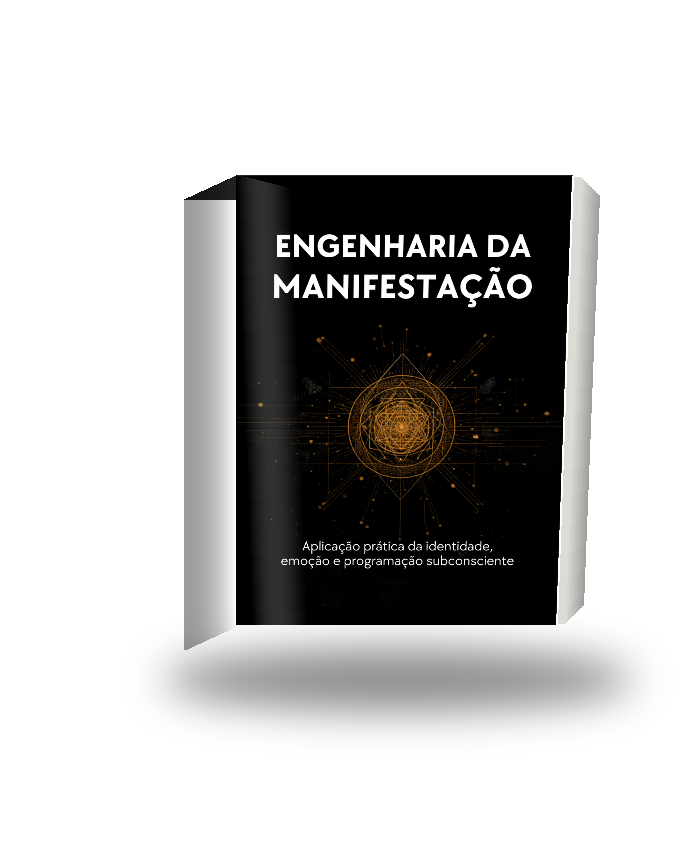
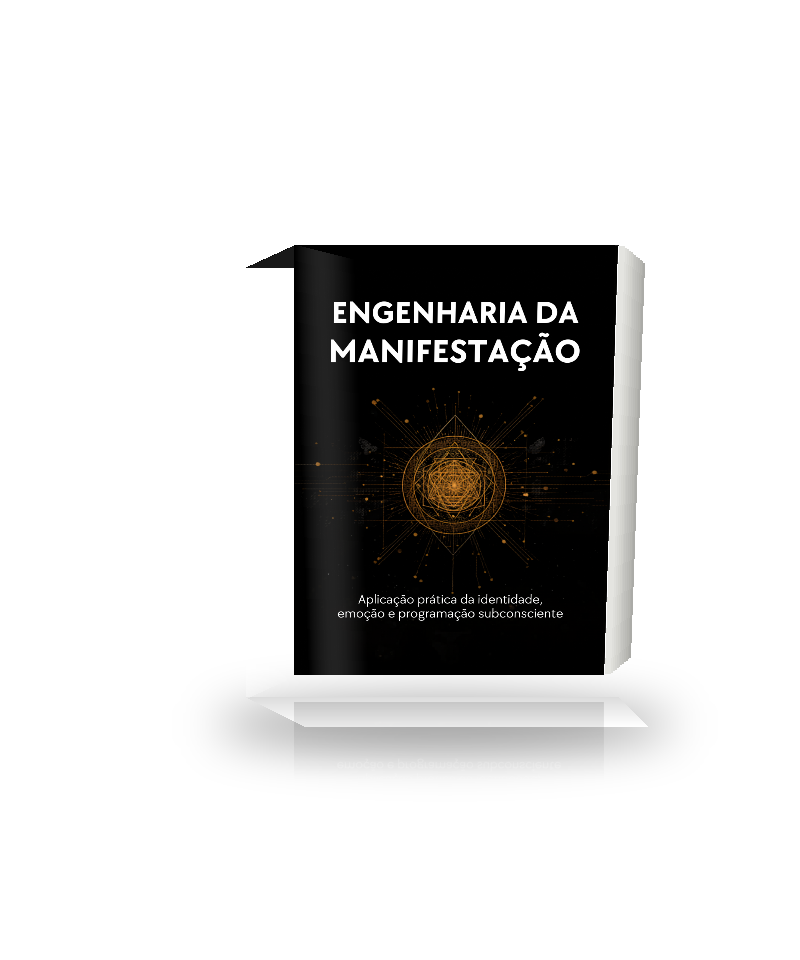
Professional product visuals: pathway-style white mockups + bundle spread with all products

Changed region(s): [[0.24, 0.1814, 0.9, 0.8465]]

diff --git a/index.html b/index.html
@@ -825,11 +825,10 @@
     .shop-card { background: #0e0e1c; border: 1px solid rgba(255,255,255,0.08); border-radius: 20px; overflow: hidden; display: flex; flex-direction: column; transition: transform .3s, box-shadow .3s; box-shadow: 0 4px 24px rgba(0,0,0,0.4); }
     .shop-card:hover { transform: translateY(-6px); box-shadow: 0 16px 48px rgba(0,200,100,0.15), 0 4px 16px rgba(0,0,0,0.5); border-color: rgba(0,200,100,0.3); }
 
-    /* IMAGEM — fundo branco/creme para o livro se destacar */
-    .shop-card__img-wrap { position: relative; background: linear-gradient(160deg, #f0ece8 0%, #e8e4f0 50%, #e4ecf8 100%); overflow: hidden; padding: 24px 16px 16px; display: flex; align-items: center; justify-content: center; min-height: 260px; }
-    .shop-card__img-wrap::after { content: ''; position: absolute; bottom: 0; left: 0; right: 0; height: 40px; background: linear-gradient(to top, #0e0e1c, transparent); pointer-events: none; }
-    .shop-card__img { width: 85%; max-width: 200px; object-fit: contain; display: block; filter: drop-shadow(0 12px 28px rgba(0,0,0,0.55)) drop-shadow(0 4px 8px rgba(0,0,0,0.3)); transition: transform .3s; }
-    .shop-card:hover .shop-card__img { transform: scale(1.04) translateY(-4px); }
+    /* IMAGEM — fundo branco puro, livro destaca-se */
+    .shop-card__img-wrap { position: relative; background: #ffffff; overflow: hidden; display: flex; align-items: center; justify-content: center; min-height: 270px; border-bottom: 1px solid rgba(0,0,0,0.07); }
+    .shop-card__img { width: 88%; max-width: 210px; object-fit: contain; display: block; transition: transform .3s; }
+    .shop-card:hover .shop-card__img { transform: scale(1.05) translateY(-5px); }
 
     .shop-card__img--audio { min-height: 160px; background: linear-gradient(135deg,#0a1a0e,#0d2b12); display: flex; align-items: center; justify-content: center; padding: 32px; }
     .shop-card__img--video { min-height: 160px; background: linear-gradient(135deg,#0a0f1a,#0d1530); display: flex; align-items: center; justify-content: center; padding: 32px; }
@@ -2203,6 +2202,11 @@
         <div class="bundle-badge">⭐ MELHOR OFERTA — ECONOMIZE R$68</div>
         <h3 class="bundle-card__title">Bundle Completo — Tudo em Um</h3>
         <p class="bundle-card__sub">Todos os 23 materiais por um único preço com desconto exclusivo</p>
+
+        <!-- Spread visual de todos os produtos -->
+        <div style="margin:-8px -16px 28px;border-radius:12px;overflow:hidden;background:#fff;">
+          <img src="bundle_spread.png" alt="Todos os produtos incluídos" style="width:100%;display:block;max-height:280px;object-fit:contain;" />
+        </div>
 
         <div class="bundle-includes">
           <div class="bundle-includes__item">
